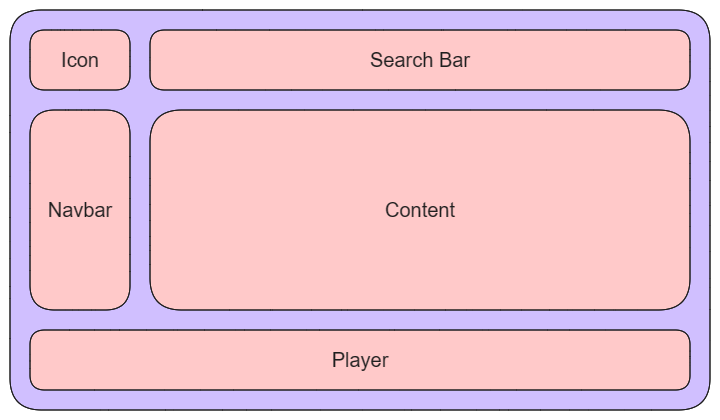
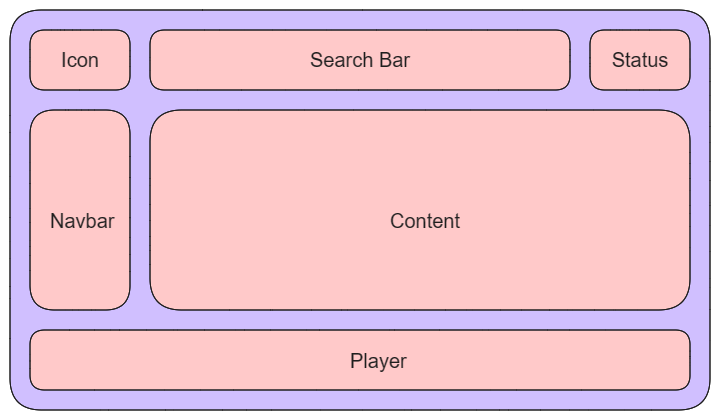
Add Setting & Room PRD

diff --git a/PRD/topics/room.md b/PRD/topics/room.md
@@ -1,0 +1,92 @@
+# 房间功能
+
+如果要加入一起听歌播放音乐，需要先连接上房间
+
+## 房间连接状态
+
+![No Connect Status](main_room_no_connect.png)
+
+用户登录后，主页将会在右上角显示房间的连接状态。连接状态包括：
+
+- 未连接状态：显示未连接，点击该区域时弹窗提示“未连接到房间，是否进行连接”，点击 Connect 时尝试连接到服务器对应房间。
+- 已连接状态：显示已连接，点击该区域时弹窗提示“已连接到房间”，用户此时可点击 Disconnect 断开连接。
+- Block 状态：显示被 Block，该状态下用户无法再连接到房间。
+
+未连接状态下，房间模块的显示内容为待连接状态，点击 Connect 按钮，尝试连接到房间。
+
+已连接状态下，房间模块显示房间的可操作内容。
+
+![Main Room Content](main_room.png)
+
+## 聊天功能 & 已连接用户
+
+房间模块可操作内容右侧为聊天区域和已连接用户列表区域。
+
+![Main Room Members Fold](main_room_member_fold.png)
+
+聊天区域显示用户的发送的消息列表。
+
+- 每条消息显示的内容包括：头像、姓名、发送时间、发送内容。
+- 消息列表下方为消息输入框和发送按钮，用户被禁止聊天时，输入框和发送按钮不可操作，输入框 hint 提示被禁止聊天。
+
+已连接用户该区域有收纳与展开状态，默认情况下处于收纳状态。
+
+- 显示区域 Icon、成员头像列表、展开按钮。点击展开按钮显示展开状态。
+- 该区域高度固定，当成员较多时，成员头像列表可滑动显示。
+
+## 用户列表展开状态
+
+展开状态下，该区域盖住聊天区域，内容收纳状态的基础上向左侧展开并扩展内容：
+
+- 顶部区域图标：右边增加成员标题与成员数量
+- 成员头像列表：扩展为成员信息列表
+- 收纳按钮：点击收纳按钮显示展开状态
+
+![Main Room Members Unfold](main_room_member_unfold.png)
+
+成员信息显示头像、名字、身份、成员ID，具有相关权限时展示对应的操作图标。
+
+| 身份   | 显示的图标                                    | 是否可点击 |
+|------|------------------------------------------|-------|
+| 群主   | 对其他所有成员显示 Admin、Chat、Book、Block 所有状态下的图标 | 可点击   |
+| 管理员  | 对其他所有普通成员显示 Chat、Book、Block 所有状态下的图标     | 可点击   |
+| 普通成员 | 显示其他成员禁言状态下的 Chat 图标、禁止点歌状态下的 Book 图标    | 不可点击  |
+
+Admin 为管理员设置图标，该图标有两种显示状态：
+
+| 对应成员状态 | 显示的图标   | 点击事件        |
+|--------|---------|-------------|
+| 非管理员   | 设置管理员图标 | 将该成员设置为管理员  |
+| 管理员    | 取消管理员图标 | 取消该成员的管理员身份 |
+
+Chat 为聊天状态图标，该图标有两种状态：
+
+| 对应成员状态 | 显示的图标   | 点击事件       |
+|--------|---------|------------|
+| 可发言    | 可聊天状态图标 | 禁言该成员      |
+| 被禁言    | 被禁言状态图标 | 恢复该成员的聊天功能 |
+
+> 被禁言的成员无法在聊天区域发送消息
+
+Book 为点歌状态图标，该图标有两种状态：
+
+| 对应成员状态 | 显示的图标  | 点击事件       |
+|--------|--------|------------|
+| 可点歌    | 可点歌图标  | 禁止该成员点歌    |
+| 禁止点歌   | 不可点歌图标 | 恢复该成员的点歌功能 |
+
+Block 为踢出成员图标，点击时将该成员踢出房间，该成员连接状态变为 Block，无法再进入到房间
+
+成员信息列表显示该区域高度固定，当成员较多是，成员信息列表可滑动显示。
+
+## 歌曲队列
+
+歌曲队列显示接下来播放的歌曲信息列表，列表头部显示剩余歌曲数量，以及剩余总时长。
+
+![Main Room Songs](main_room_songs.png)
+
+歌曲信息列表显示歌曲封面、歌曲名称、歌手名称、歌曲时长。歌曲列表可滚动查看。
+
+当前用户为管理员时：
+- 可长按拖拽对应位置的歌曲，调整歌曲位置，拖拽过程歌曲列表应当可滚动。
+- 歌曲信息右边显示移除按钮，点击移除按钮将该歌曲从列表中移除

diff --git a/PRD/topics/pages.md b/PRD/topics/pages.md
@@ -1,12 +1,14 @@
-# 页面
+# Cosmos 桌面端
+
+## 页面
 
 桌面端页面包含以下页面。
 
-##  启动页面
+###  启动页面
 
 用于加载客户端运行时的一些基础数据。
 
-## 服务地址配置页
+### 服务地址配置页
 
 由于 Cosmos 项目不做发布行为，仅供学习使用，因此对于服务端地址是未知的，需要在配置页面先配置好服务端地址才能使用功能。
 
@@ -16,56 +18,74 @@
 
 ![url_setting_screen_sample](url_setting_screen_sample.png)
 
-## 登录页
+> 详情查看：[服务地址设置](server_url.md)
 
-支持 GitHub 授权注册/登录。
+### 登录页
 
-该页面可修改主题配置。
+未登录的情况下，进行注册/登录。
 
 ![login_screen_sample](login_screen_sample.png)
 
-在完成注册/登录后，进行音乐平台账号登录引导，引导步骤可跳过。
+> 详情查看：[账号系统](account.md)
+
+### 音乐平台绑定引导页
+
+在完成注册后，或者登录后存在未绑定的音乐平台，则跳转到这个页面引导用户进行音乐平台账号的绑定， 
+该引导步骤可跳过。
 
 ![music_platform_link_guide_screen_sample](music_platform_link_guide_screen_sample.png)
 
-## 主页
+> 详情查看：[账号系统](account.md)
+
+### 主页
 
 登录完成后进入主页，主页包含多个子模块，UI 上体现为侧边栏和内容容器，以及公共组件。
 
 其中子模块包含：
-- 群组模块
-- 歌曲模块
-- 设置模块
+- [房间模块](room.md)
+- [歌曲模块](songs.md)
+- [设置模块](setting.md)
 
 公共组件包含：
+- 连接状态显示
+- 侧边栏
 - 歌曲搜索框
-- 歌曲播放框
+- 播放器
 
 ![main_screen_sample](main_screen_sample.png)
 
 主页承载客户端的主要功能，并分摊到对应模块中。
 
 模块包含功能可能会在版本迭代中发生变化，因此功能所属为类型，而不是模块。
-各个功能类型包含的功能如下：
 
-### 歌曲相关功能 {collapsible="true"}
+> 相关功能类型参考功能列表，各个模块的功能详情请阅读对应模块的说明
+
+### 沉浸播放
+
+一个占用整个窗口的歌曲播放界面
+
+## 功能列表
+
+各个功能类型包含的功能如下。
+
+#### 房间功能 {collapsible="true"}
+- 连接到房间
+- 断开房间连接
+- 展示已连接成员
+- 播放列表
+- 文字聊天
+- 点歌
+
+#### 歌曲扩展功能 {collapsible="true"}
 - 搜索歌曲（歌曲、歌手、专辑）
 - 推荐歌曲（最多播放、最近播放）
 - 歌手信息展示
 - 专辑信息展示
 - 歌曲信息展示
-- 点歌（需要连接上群组后才可以操作）
-- 歌曲播放（个人播放设置调整）
+- 播放设置调整
 
-### 群组相关功能 {collapsible="true"}
-- 连接群组
-- 断开群组连接
-- 展示群组已连接成员
-- 播放列表
-- 文字聊天
-
-### 管理员特权功能 {collapsible="true"}
-- 管理员注册
+#### 管理员特权功能 {collapsible="true"}
+- 设置/取消管理员
 - 移除成员
 - 禁止成员点歌
 - 禁言成员
@@ -73,7 +93,7 @@
 - 调整播放顺序
 - 暂停/播放/切歌
 
-### 设置功能 {collapsible="true"}
+#### 设置功能 {collapsible="true"}
 - 用户信息展示（包含注册方式）
 - 用户信息修改
 - 音乐平台账号展示与登录
@@ -81,7 +101,3 @@
 - 聊天通知
 - 退出登录
 - 切换服务端地址
-
-## 沉浸播放
-
-一个占用整个窗口的歌曲播放界面

diff --git a/PRD/topics/setting.md b/PRD/topics/setting.md
@@ -1,0 +1,22 @@
+# 设置
+
+主页设置模块内容，高度不够时该模块的内容可滚动
+
+![main_setting_sample](main_setting_sample.png)
+
+## 用户信息模块
+
+显示用户基本信息，用户ID、头像、名字、邮箱、管理员标识、登录类型【目前不做】。
+
+用户可点击 Edit 修改用户的头像、名字。邮箱目前不支持更改。
+
+## 通用模块
+
+- 修改客户端语言
+- 修改客户端主题（预设主页、自定义配色）
+- 是否开启消息通知
+
+
+## 重置服务地址
+
+重置服务地址，请参考 [服务地址设置](server_url.md)

diff --git a/PRD/topics/server_url.md b/PRD/topics/server_url.md
@@ -18,3 +18,5 @@
 用户如果需要更换服务器地址，可在主页设置模块里重置服务端地址。
 
 重置时弹窗提示用户重置服务端地址会断开群组连接，并退出登录。用户确定重置后清空所有数据，并回到服务器地址设置页面。
+
+> [阅读设置](setting.md)

diff --git a/PRD/topics/account.md b/PRD/topics/account.md
@@ -31,8 +31,6 @@
 
 用户可在主页的设置中，通过链接到音乐平台账号模块下，登录对应平台的账号进行绑定
 
-TODO
-
 ## 退出登录
 
 用户可在设置中，退出登录的账号。

diff --git a/PRD/topics/songs.md b/PRD/topics/songs.md
@@ -1,0 +1,3 @@
+# &#27468;&#26354;&#27169;&#22359;
+
+Start typing here...
